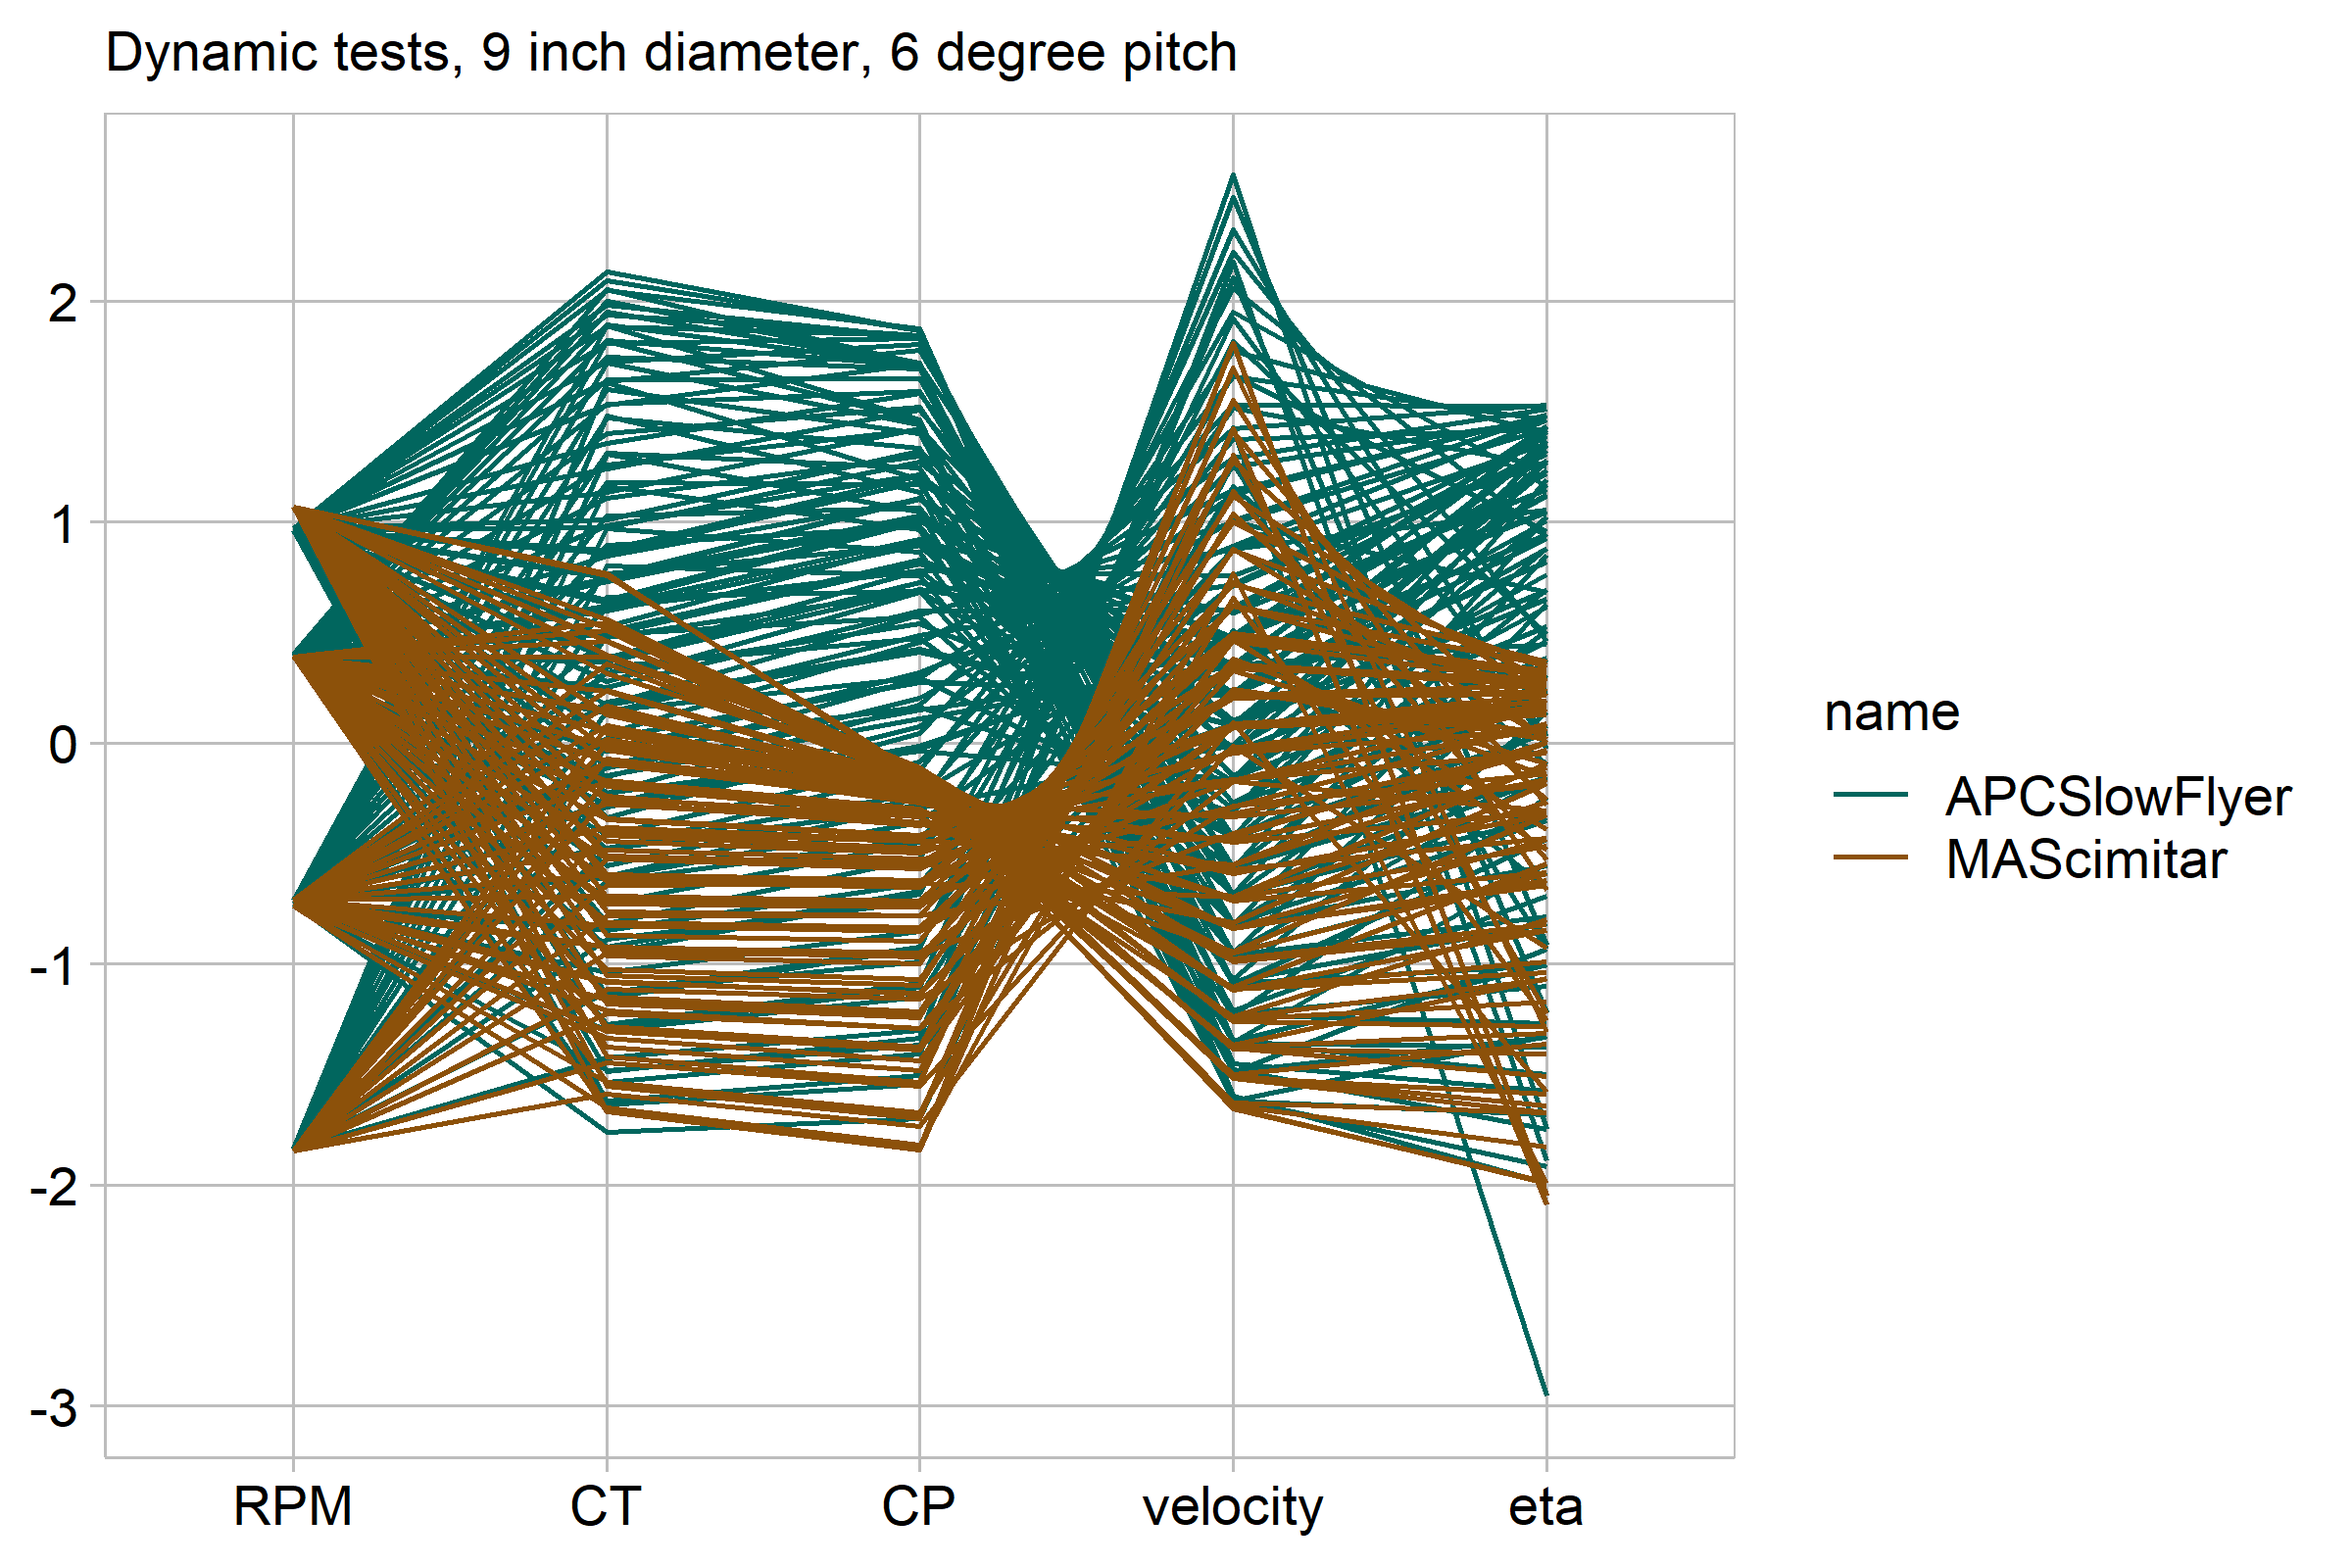
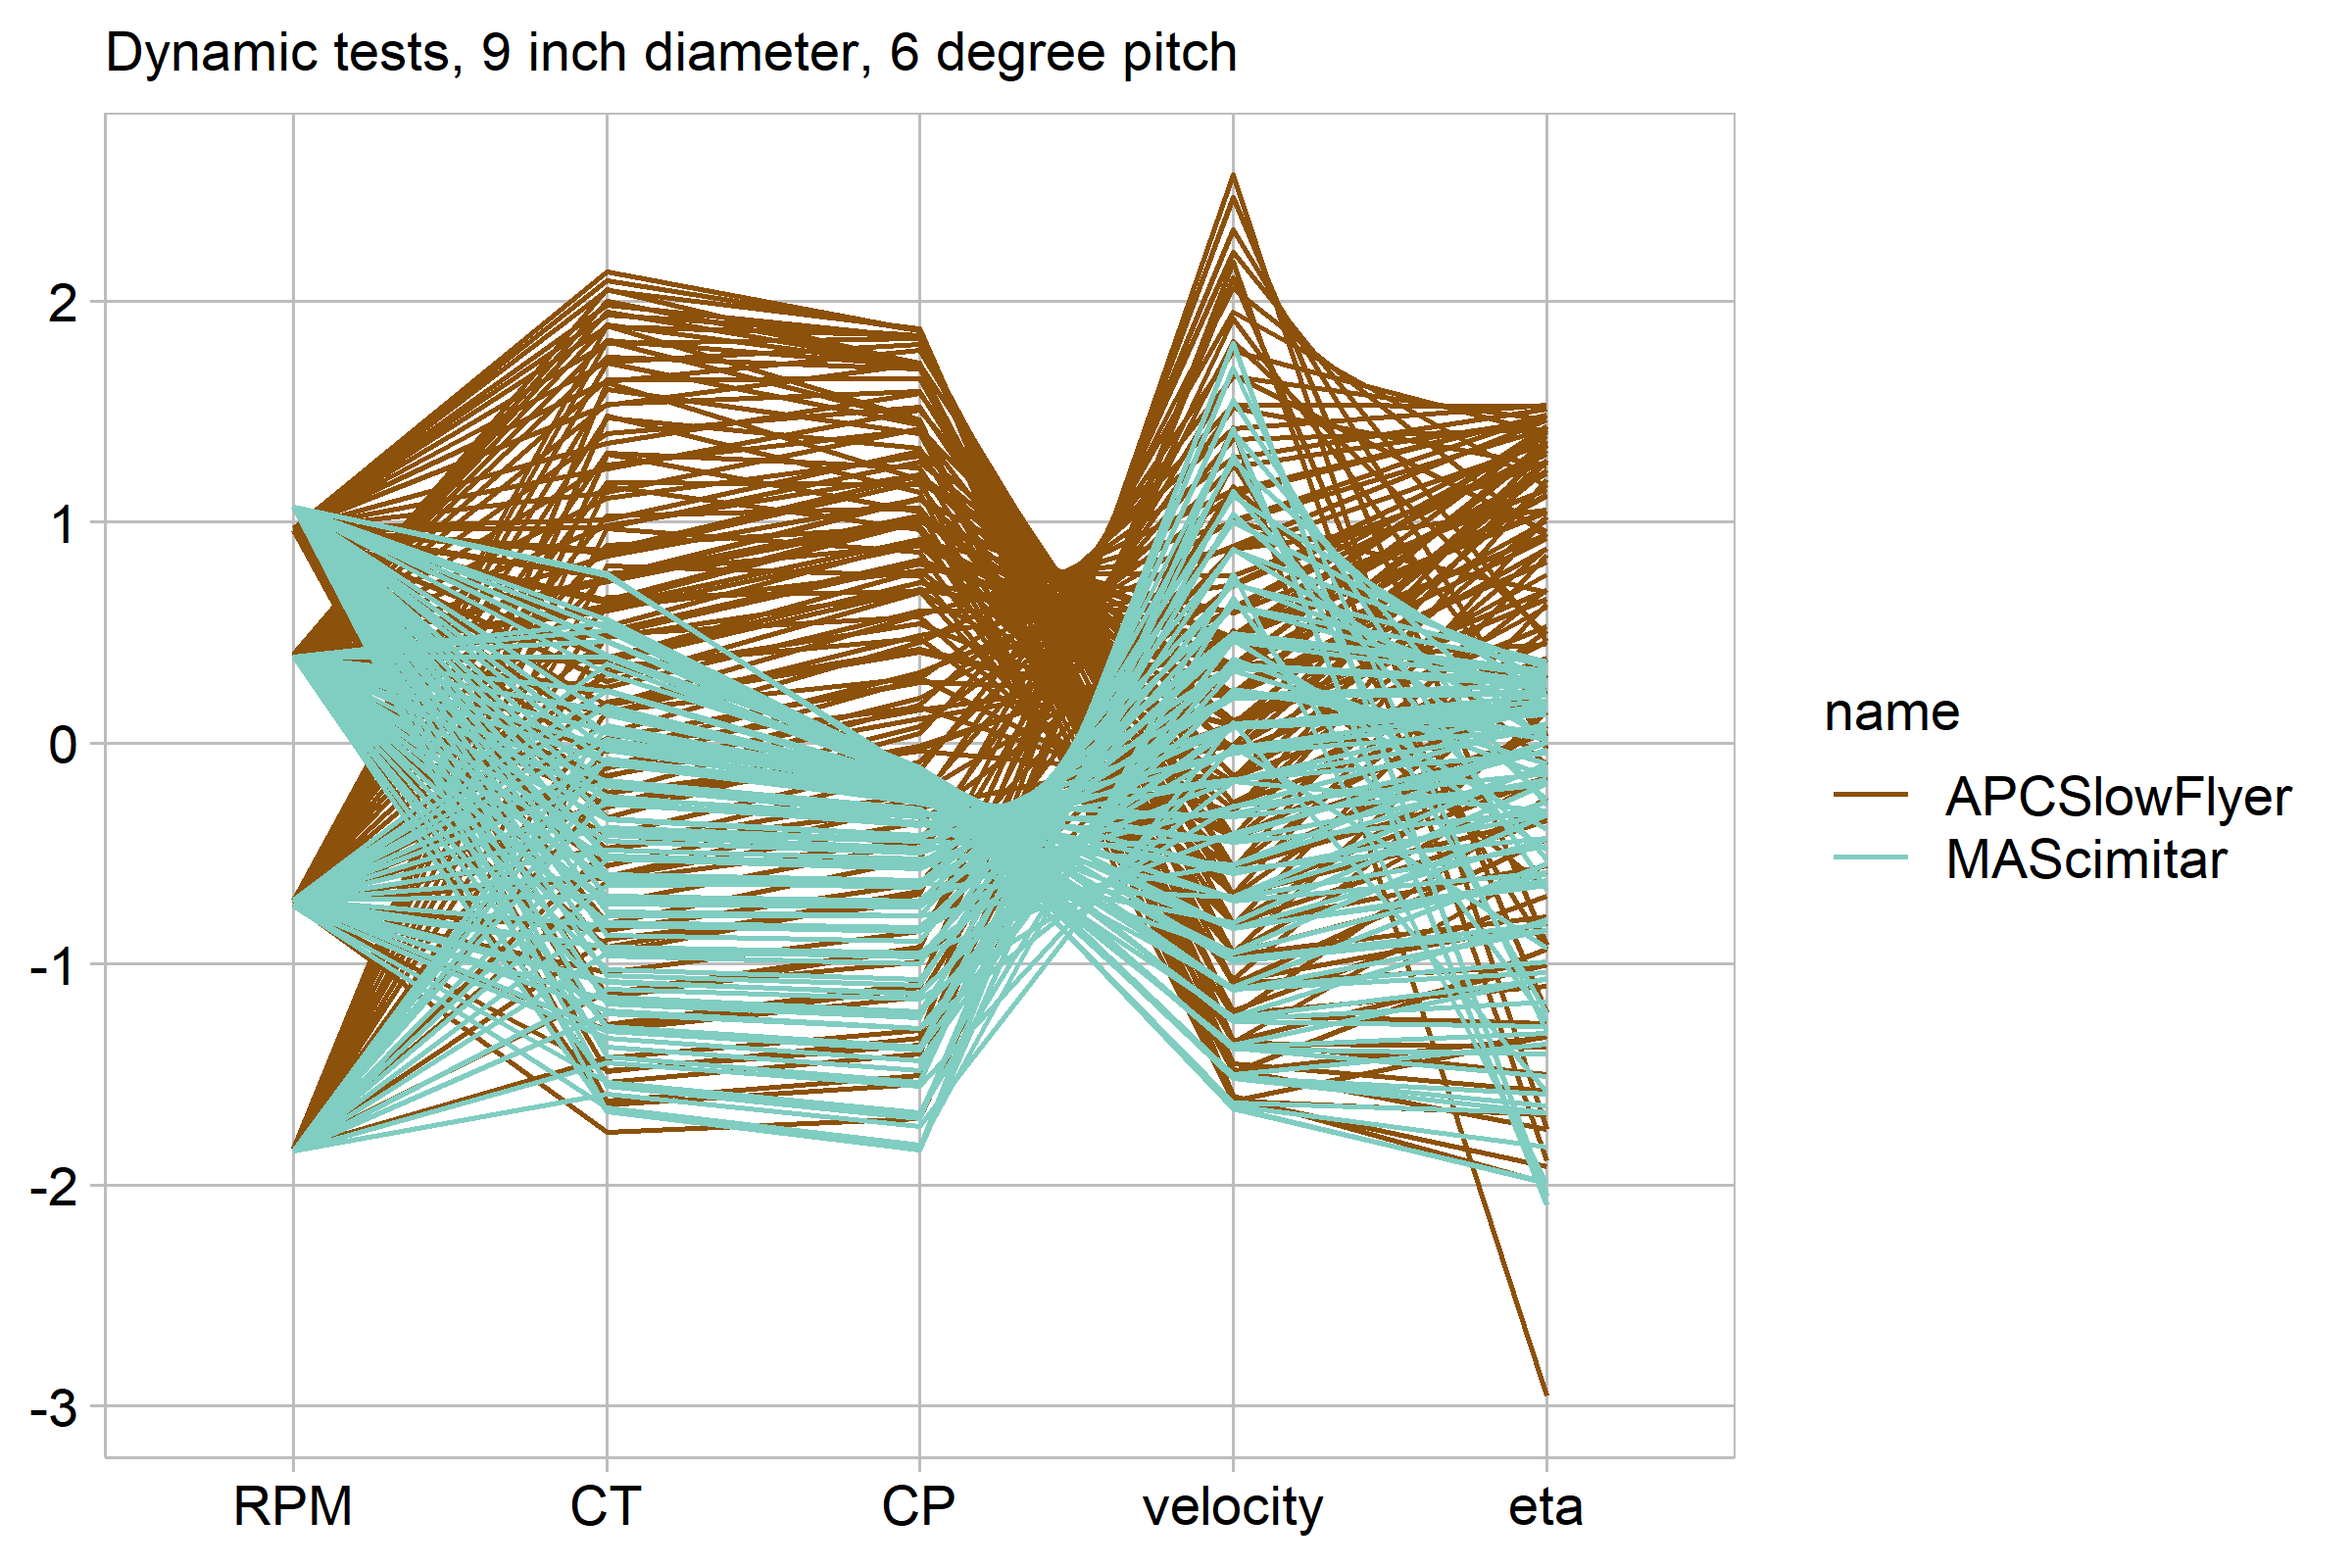
final-7

Changed region(s): [[0.125, 0.125, 0.6562, 0.7812]]

diff --git a/reports/d6.md b/reports/d6.md
@@ -26,7 +26,7 @@ The main takeaway from the display is that there is a difference between these p
 
 A parellel coordinate plot is suited for this data because I have many quantitative variables, with a couple categorical. The pwrallel coordinate plot is one of the few that can accomidate this many quantitative variables. In addition the comparison is more important than the correlation between the variables for me, so the loss of fidelity on the correlations is not a big problem.
 
-To make this display information dense, readible, and accesible I made several design choices. The color pallete was choosen to be high contrast and colorblind freindly. The aspect ratio was choosen to make the slopes closer 45 degrees and make it easier to see trends. I made the graph as small as I could without making the labels indistinguishable. This helps emphasize the data (Doumont, [2009](#ref-Doumont:2009)).
+To make this display information dense, readible, and accesible I made several design choices. The color pallete was choosen to be high contrast, and print and colorblind freindly. The aspect ratio was choosen to make the slopes closer 45 degrees (on average) and make it easier to see trends. I made the graph as small as I could without making the labels indistinguishable. This helps emphasize the data (Doumont, [2009](#ref-Doumont:2009)).
 
 ### references
 
